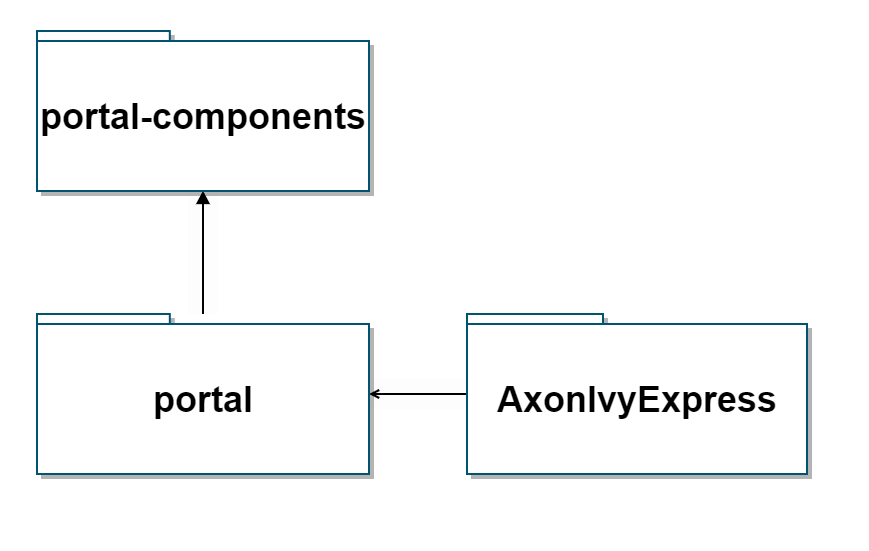
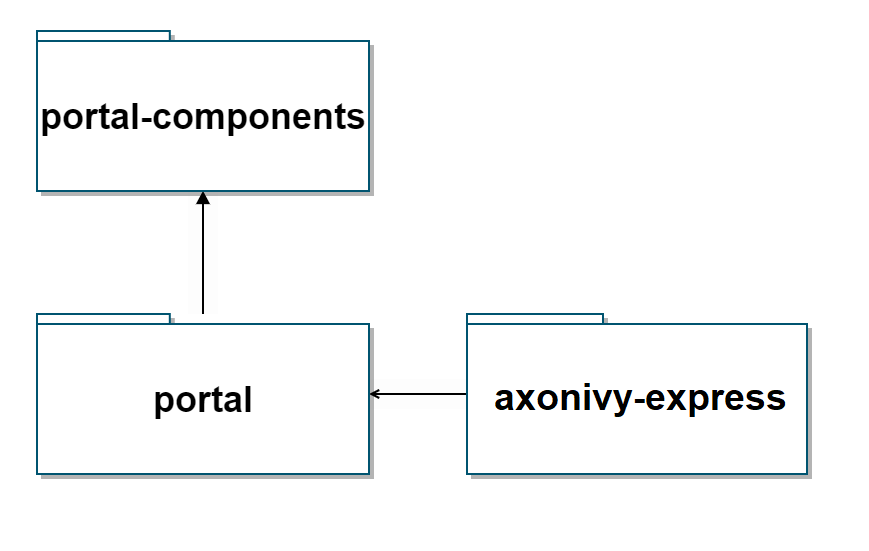
document/IVYPORTAL-14577-make-express-an-independent-marketplace-item (#194)

Changed region(s): [[0.5593, 0.6788, 0.901, 0.7713]]

diff --git a/Documentation/portal-guide/source/portal-developer-guide/installation/index.rst b/Documentation/portal-guide/source/portal-developer-guide/installation/index.rst
@@ -20,7 +20,7 @@ on each module, refer to :ref:`architecture`.
 
 -  portal-components
 -  portal
--  AxonIvyExpress
+-  axonivy-express
 
 The deployment of Ivy projects is described in :dev-url:`project
 deployment </doc/|version|/engine-guide/deployment/index.html>`
@@ -33,6 +33,7 @@ Designer
 ^^^^^^^^
 
 Import Portal modules to Designer.
+axonivy-express is excluded from the Portal application. If you want to use axonivy-express, you should import it from Axon Ivy Market.
 
 
 Engine Without License (Demo Mode)
@@ -142,6 +143,17 @@ In Engine
 #. Redeploy Portal projects and customer project.
 
 #. Follow detailed migration notes for each version below.
+
+Migrate 11.1.0 To 11.2.0
+------------------------
+
+The ``AxonIvyExpress`` module is renamed to ``axonivy-express`` and becomes an item on the Axon Ivy Market, To migrate it you need to do the following steps:
+
+- Open **Portal**, go to **Setting** -> **Express Management**. Export all Express configurations.
+- Open the **Cockpit**, stop the PM **AxonIvyExpress** in your **Portal** application.
+- Deploy the **axonivy-express** module which gets from the Axon Ivy Market into the **Portal** application.
+- Restart Engine.
+- Open **Portal**, go to **Setting** -> **Express Management**. Import the configuration which is exported at the first step.
 
 Migrate 10.0.12 To 10.0.13
 --------------------------
@@ -471,6 +483,8 @@ Migrate 8.x To 9.x
 You need to do all steps starting at ``Migrate 8.x To ...`` up to and including
 ``Migrate ... To 9.x``
 
+.. _installation-release-notes:
+
 Release notes
 =============
 
@@ -491,6 +505,7 @@ Changes in 11.2.0
 - Introduced the sort feature for the process dashboard widget. User can sort the processes by index, alphabetical order or by custom order.
 - Introduced the ``taskId`` param for the component ``ic:com.axonivy.portal.components.ProcessViewer`` to highlight the current step in the Process Viewer.
 - Portal Legacy dashboard has been removed.
+- The ``AxonIvyExpress`` module is renamed to ``axonivy-express`` and becomes an item on the Axon Ivy Market.
 
 Changes in 10
 -------------

diff --git a/Documentation/portal-guide/source/portal-developer-guide/architecture/index.rst b/Documentation/portal-guide/source/portal-developer-guide/architecture/index.rst
@@ -23,8 +23,8 @@ The Portal and Projects using it should be deployed in different applications bu
 .. _architecture-portal-process-modules-structure:
 
 
-The Portal App consists of the following modules: portal-components, portal and AxonIvyExpress.
-While AxonIvyExpress is optional, all other modules are mandatory.
+The Portal App consists of the following modules: portal-components, portal and axonivy-express.
+While axonivy-express is optional, all other modules are mandatory.
 
 |process-module-structure|
 
@@ -37,7 +37,7 @@ portal-components
 
 This module contains Ivy components such as User Selection, Role Selection,
 Document Table, Process Chain, Process History, and Process Viewer,... These components are independent
-of the modules portal and AxonIvyExpress. You can use them in your own applications.
+of the modules portal and axonivy-express. You can use them in your own applications.
 
 .. _architecture-portal:
 
@@ -55,8 +55,8 @@ default pages like Portal home, Portal task list, Portal case list etc..
 
 .. _architecture-axonivy-express:
 
-AxonIvyExpress
-==============
+axonivy-express
+===============
 
 **No Code Process Management**
 
@@ -68,8 +68,8 @@ This project has been extended from portal. It allows the end user to
 -  Create his own workflow
 -  Create and modify a web form for this workflow
 
-|ivy| Express also provides an AdHoc process feature. When Express is deployed, users can start an AdHoc process from any task.
-Adhoc allows users to define additional process steps which will be executed before the current task.
+|ivy| Express also provides an ad hoc process feature. When Express is deployed, users can start an ad hoc process from any task.
+Ad hoc allows users to define additional process steps which will be executed before the current task.
 
 .. |process-module-structure| image:: images/process-module-structure.png
 .. |multi-app-structure| image:: images/multi-app-structure.png
